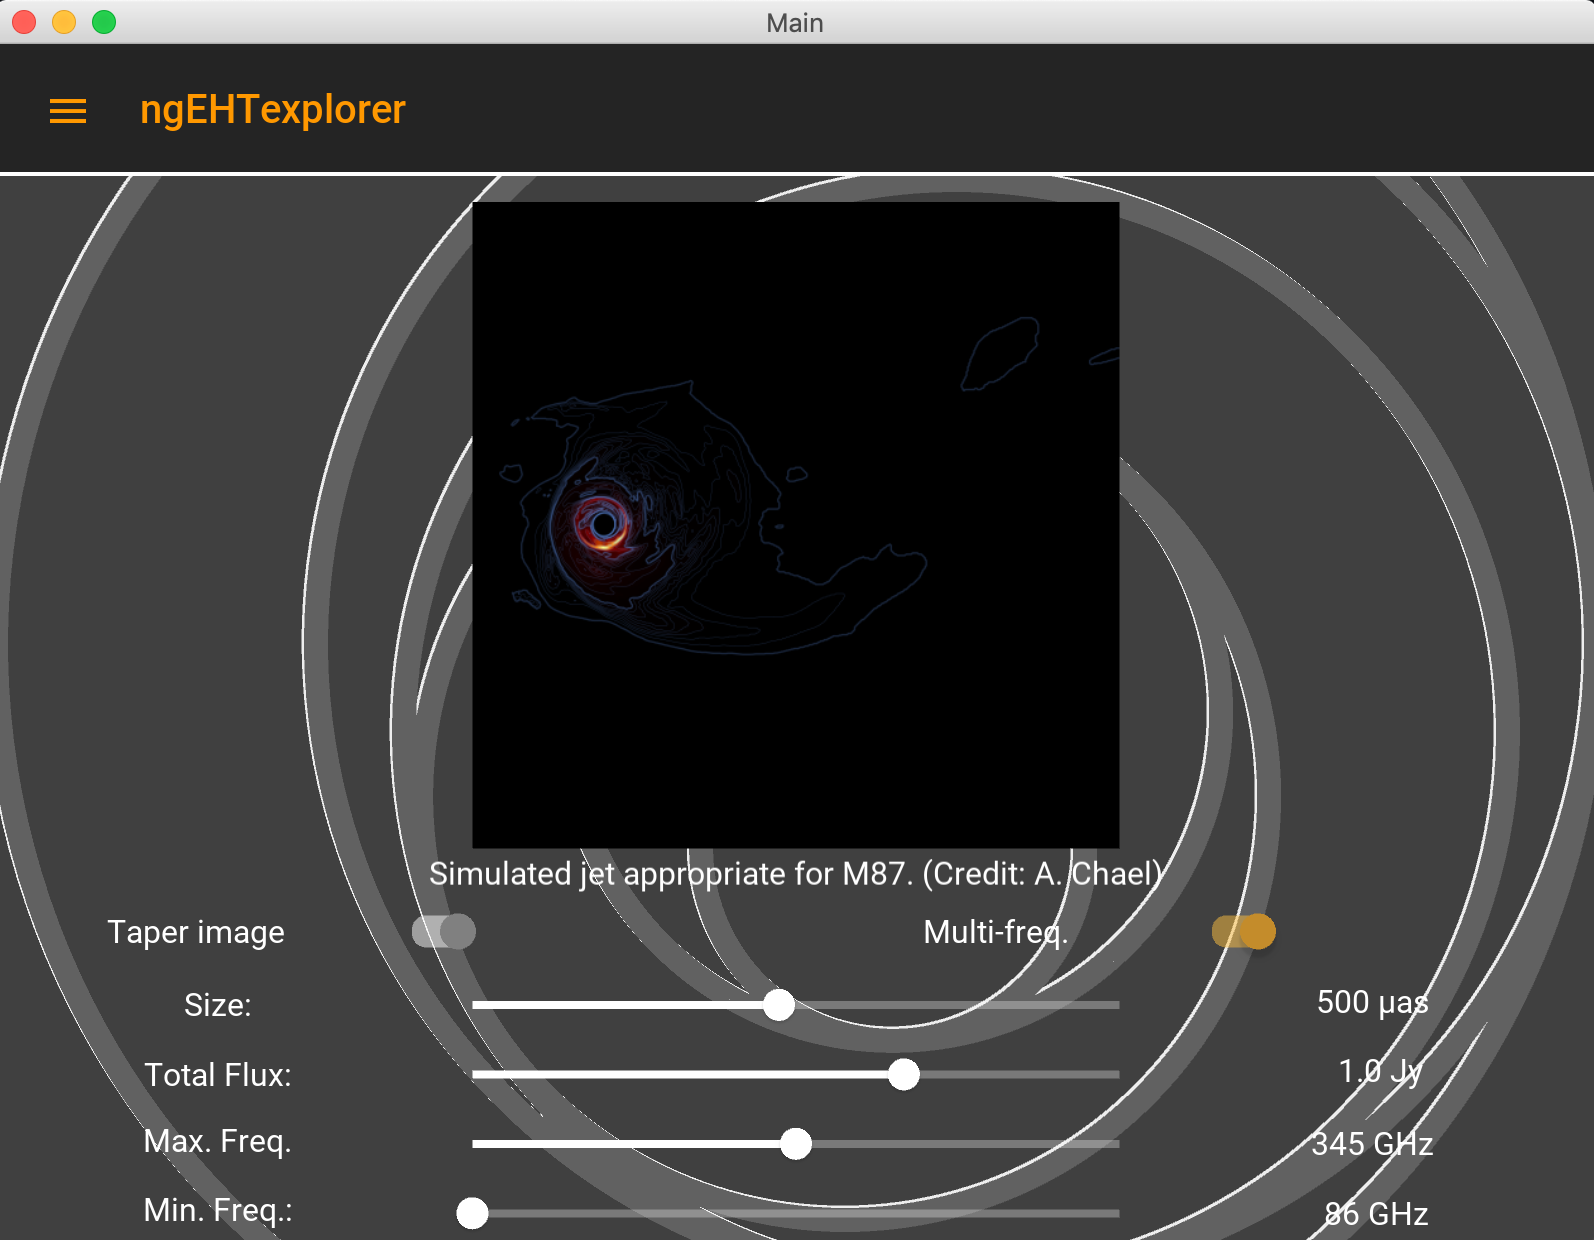
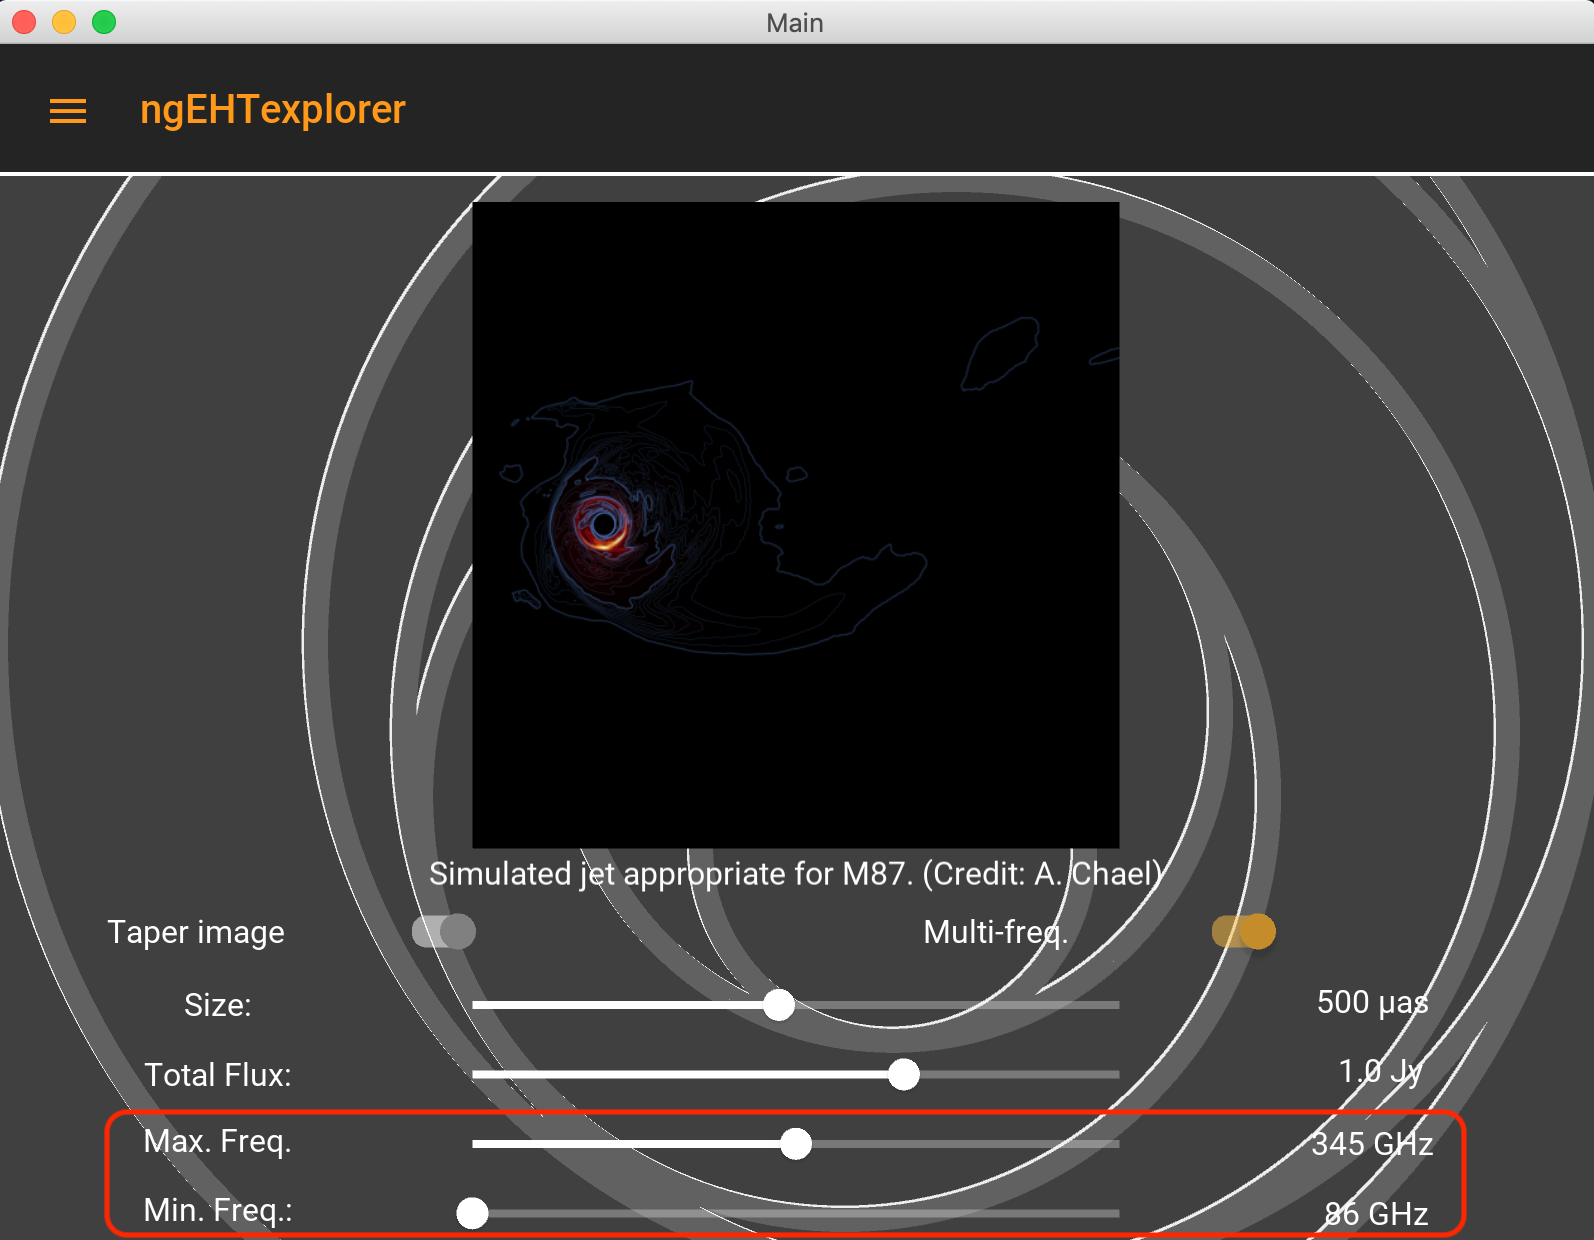
Adding tour

Changed region(s): [[0.0615, 0.8887, 0.9222, 1.0], [0.0922, 0.0613, 0.2459, 0.1226], [0.0307, 0.0613, 0.0615, 0.0919]]

diff --git a/README.md b/README.md
@@ -56,11 +56,14 @@ From thet navigation drawer you can select a variety of screens.  We begin with 
    <img src="docs/expert_navigation_drawer_tg.png" alt="expert navigation drawer" width="256" class="center"/>  &emsp; <img src="docs/expert_target_selection.png" alt="expert target selection" width="256" class="center"/>
 </p>
 
-We now turn to the Source screen, which permits selecting the source image.  Options include the source itself (dragging left/right on teh image), the 
-
-sky position of interest.
+We now turn to the Source screen, which permits selecting the source image.  Options include the source itself (dragging left/right on teh image), the field of view of the image shown, total flux in the image, and observation frequency.  
 
 <p align="center">
    <img src="docs/expert_navigation_drawer_src.png" alt="expert navigation drawer" width="256" class="center"/>  &emsp; <img src="docs/expert_source_selection.png" alt="expert source selection" width="256" class="center"/>
 </p>
 
+It is possible to simulate multi-frequency observations, i.e., observations in which multiple frequencies are reconstructed simultaneously, assuming perfect phase transfer among the frequencies.  To do this, select the "Multi-freq." switch, and set the upper and lower frequency range.
+
+<p align="center">
+   <img src="docs/expert_source_selection_multifreq.png" alt="multi-frequency option" width="256" class="center"/>  &emsp; <img src="docs/expert_source_selection_multifreq2.png" alt="multi-frequency range selection" width="256" class="center"/>
+</p>
